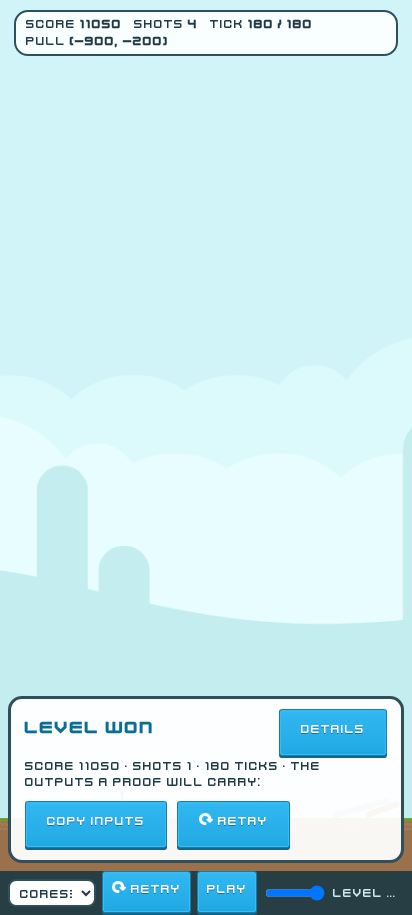
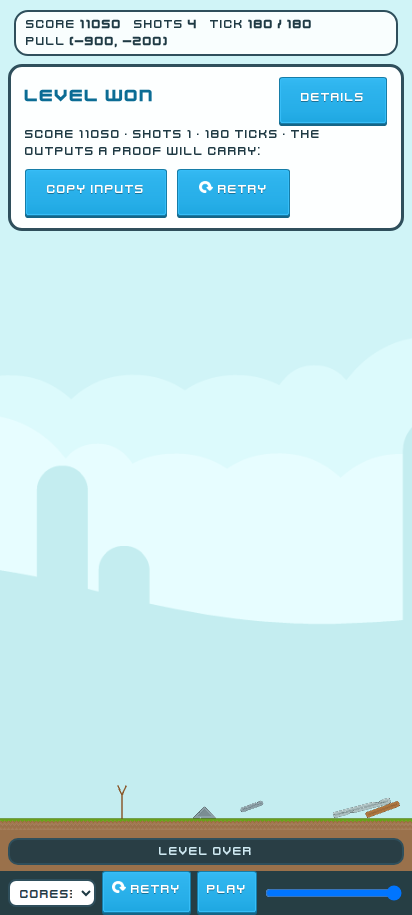
fix(client): Kenney skin review: isosceles stone triangle, cracked slate sizes, phone panel and hint, debris test (M6)

diff --git a/client/src/render/render.test.ts b/client/src/render/render.test.ts
@@ -2,7 +2,11 @@ import { describe, expect, it } from 'vitest';
 import { ABSENT, ASLEEP, AWAKE, TraceBuffer } from './buffer';
 import { boundsOf, fitCamera, screenToWorld, worldToScreen } from './camera';
 import { hudAt } from './hud';
+import { Container, Texture } from 'pixi.js';
 import { Effects } from './effects';
+import { Scene } from './scene';
+import { kenneySkin } from './skin';
+import { KENNEY_FILES, type KenneyTextures } from './skin/kenney';
 import { Playback } from './playback';
 import { buildPile10 } from '../trace/synth';
 import type { TraceEvent } from '../trace/types';
@@ -151,5 +155,57 @@ describe('Effects wear', () => {
     expect(effects.worn(slot)).toBe(false);
     effects.advance(25, 25, 300);
     expect(effects.worn(slot)).toBe(true);
+  });
+});
+
+describe('Scene debris', () => {
+  const trace = buildPile10();
+  const textures = Object.fromEntries(Object.keys(KENNEY_FILES).map((k) => [k, Texture.EMPTY])) as KenneyTextures;
+  const destroyed = trace.events.find((e) => e.kind === 'destroyed')!;
+  const shotEnd = trace.events.find((e) => e.kind === 'shot_end')!;
+
+  function setup() {
+    const buffer = new TraceBuffer(trace.level);
+    for (const frame of trace.frames) buffer.push(frame);
+    const scene = new Scene(trace.level, buffer, kenneySkin(textures));
+    const effects = new Effects(buffer, trace.events, trace.level.bodies);
+    const debris = () => (scene.world.children[0] as Container).children.length;
+    const show = (tick: number, now: number) => {
+      effects.advance(tick, tick, now);
+      scene.update(tick, effects, now);
+    };
+    return { debris, show };
+  }
+
+  it('throws three pieces per destruction, once, and none for a spent pebble', () => {
+    const { debris, show } = setup();
+    show(destroyed.tick - 1, 0);
+    expect(debris()).toBe(0);
+    show(destroyed.tick, 100);
+    expect(debris()).toBe(3);
+    show(destroyed.tick, 150); // the same destruction, later frames of the display
+    expect(debris()).toBe(3);
+    show(shotEnd.tick, 200); // the pebble is spent here: it fades, it throws nothing
+    expect(debris()).toBe(3);
+  });
+
+  it('drops the pieces when they have fallen and faded, and throws none again after a seek back', () => {
+    const { debris, show } = setup();
+    show(destroyed.tick, 100);
+    expect(debris()).toBe(3);
+    show(destroyed.tick, 100 + 1000);
+    expect(debris()).toBe(0);
+    show(destroyed.tick - 10, 1200); // a seek back clears the effects
+    show(destroyed.tick - 5, 1300);
+    expect(debris()).toBe(0);
+  });
+
+  it('throws again when the destruction is played again', () => {
+    const { debris, show } = setup();
+    show(destroyed.tick, 100);
+    show(destroyed.tick - 10, 1500);
+    expect(debris()).toBe(0);
+    show(destroyed.tick, 1600);
+    expect(debris()).toBe(3);
   });
 });

diff --git a/client/src/render/skin/skin.test.ts b/client/src/render/skin/skin.test.ts
@@ -1,3 +1,4 @@
+import { readFileSync } from 'node:fs';
 import { Container, NineSliceSprite, Sprite, Texture } from 'pixi.js';
 import { describe, expect, it } from 'vitest';
 import { flatSkin, kenneySkin, skinName, type Skin } from '.';
@@ -103,6 +104,20 @@ describe('kenney skin: triangles, wear, debris', () => {
       expect(textures.size).toBe(3);
     }
     expect(skin.debris!('timber', 0).scale.y).toBeLessThan(0);
+  });
+});
+
+describe('kenney files', () => {
+  /** Width and height from a PNG's IHDR: `Texture.EMPTY` in the tests above cannot tell a wrong file from a right one. */
+  const size = (file: string): [number, number] => {
+    const png = readFileSync(new URL(`../../../public/assets/kenney/physics/${file}`, import.meta.url));
+    return [png.readUInt32BE(16), png.readUInt32BE(20)];
+  };
+
+  it.each(Object.entries(KENNEY_FILES))('%s has the size its use needs', (key, file) => {
+    if (/H$|HCracked$|Tri$/.test(key)) expect(size(file)).toEqual([140, 70]); // blocks lie 2 m x 1 m, triangles 2 m x 1 m
+    else if (/V$|VCracked$/.test(key)) expect(size(file)).toEqual([70, 140]);
+    else if (key === 'pebble' || key === 'core' || key === 'grass') expect(size(file)).toEqual([70, 70]);
   });
 });
 

diff --git a/client/src/style.css b/client/src/style.css
@@ -264,17 +264,33 @@ canvas {
     max-width: 88px;
   }
 
+  /* The scene stands on the bottom of the screen (camera.ts `alignBottom`): the result panel goes to the top,
+     over the sky, under the HUD; the hint floats above the controls bar, wrapped, instead of being cut in it. */
   .banner {
     top: auto;
-    bottom: 52px;
+    bottom: 92px;
   }
 
   .result {
-    top: auto;
-    bottom: 52px;
+    top: 64px;
+    bottom: auto;
     right: 8px;
     width: min(560px, calc(100% - 16px));
-    max-height: calc(100% - 120px);
+    max-height: calc(100% - 64px - 96px);
+  }
+
+  .hint {
+    position: fixed;
+    left: 8px;
+    right: 8px;
+    bottom: 50px;
+    padding: 3px 10px;
+    border-radius: 10px;
+    background: rgba(20, 22, 27, 0.85);
+    white-space: normal;
+    text-align: center;
+    opacity: 1;
+    pointer-events: none;
   }
 }
 
@@ -398,6 +414,11 @@ body[data-skin='kenney'] .submit {
 @media (max-width: 600px), (max-height: 500px) {
   body[data-skin='kenney'] .hud {
     padding: 4px 10px;
+  }
+
+  body[data-skin='kenney'] .hint {
+    background: rgba(31, 58, 68, 0.92);
+    border: 2px solid #2f4f5c;
   }
 
   body[data-skin='kenney'] .controls button {

diff --git a/client/src/render/skin/kenney.ts b/client/src/render/skin/kenney.ts
@@ -30,9 +30,9 @@ export const KENNEY_FILES = {
   timberTri: 'wood/elementWood054.png',
   slateH: 'stone/elementStone015.png',
   slateV: 'stone/elementStone017.png',
-  slateHCracked: 'stone/elementStone046.png',
-  slateVCracked: 'stone/elementStone048.png',
-  slateTri: 'stone/elementStone054.png',
+  slateHCracked: 'stone/elementStone047.png',
+  slateVCracked: 'stone/elementStone049.png',
+  slateTri: 'stone/elementStone006.png',
   frostH: 'glass/elementGlass016.png',
   frostV: 'glass/elementGlass023.png',
   frostHCracked: 'glass/elementGlass048.png',

diff --git a/client/ASSETS.md b/client/ASSETS.md
@@ -14,7 +14,6 @@ Fetched over HTTPS on 2026-10-02 (VPS); zip size and sha256 as downloaded.
 | --- | --- | --- | --- | --- |
[2 lines of base64/hex data omitted]
-
[1 lines of base64/hex data omitted]
 
 The Particle Pack was fetched on 2026-10-03 and **not used**: its README thanks the authors of the filter templates the
@@ -34,9 +33,9 @@ and debris sprites), unchanged from the Physics Assets 1.0 zip (`PNG/<folder>/`)
 | `glass/elementGlass016.png` (140x70), `glass/elementGlass023.png` (70x140) | `PNG/Glass elements/` | Frost blocks, nine-slice |
 | `stone/elementStone001.png` (70x70) | `PNG/Stone elements/` | The pebble (stone circle) |
 | `wood/elementWood046.png` (140x70), `wood/elementWood048.png` (70x140) | `PNG/Wood elements/` | Worn timber: the cracked sprites, swapped in under half hp |
-| `stone/elementStone046.png`, `stone/elementStone048.png` | `PNG/Stone elements/` | Worn slate |
+| `stone/elementStone047.png` (140x70), `stone/elementStone049.png` (70x140) | `PNG/Stone elements/` | Worn slate |
 | `glass/elementGlass048.png` (140x70), `glass/elementGlass050.png` (70x140) | `PNG/Glass elements/` | Worn frost |
-| `wood/elementWood054.png`, `stone/elementStone054.png` (140x70), `glass/elementGlass001.png` (140x70) | `PNG/<Wood\|Stone\|Glass> elements/` | Triangles (cores3's static triangle, the trace's roof), mapped onto the polygon's three vertices |
+| `wood/elementWood054.png`, `stone/elementStone006.png`, `glass/elementGlass001.png` (all 140x70 isosceles; checked by `skin.test.ts`) | `PNG/<Wood\|Stone\|Glass> elements/` | Triangles (cores3's static triangle, the trace's roof), mapped onto the polygon's three vertices |
 | `debris/debris{Wood,Stone,Glass}_{1,2,3}.png` (9 files, about 60x55) | `PNG/Debris/` | Three pieces thrown by a destroyed body |
 | `aliens/alienGreen_round.png` (70x70) | `PNG/Aliens/` | Cores |
 | `other/grass.png` (70x70) | `PNG/Other/` | The ground's grass strip; its earth colour (rgb 189, 137, 88) fills below |
